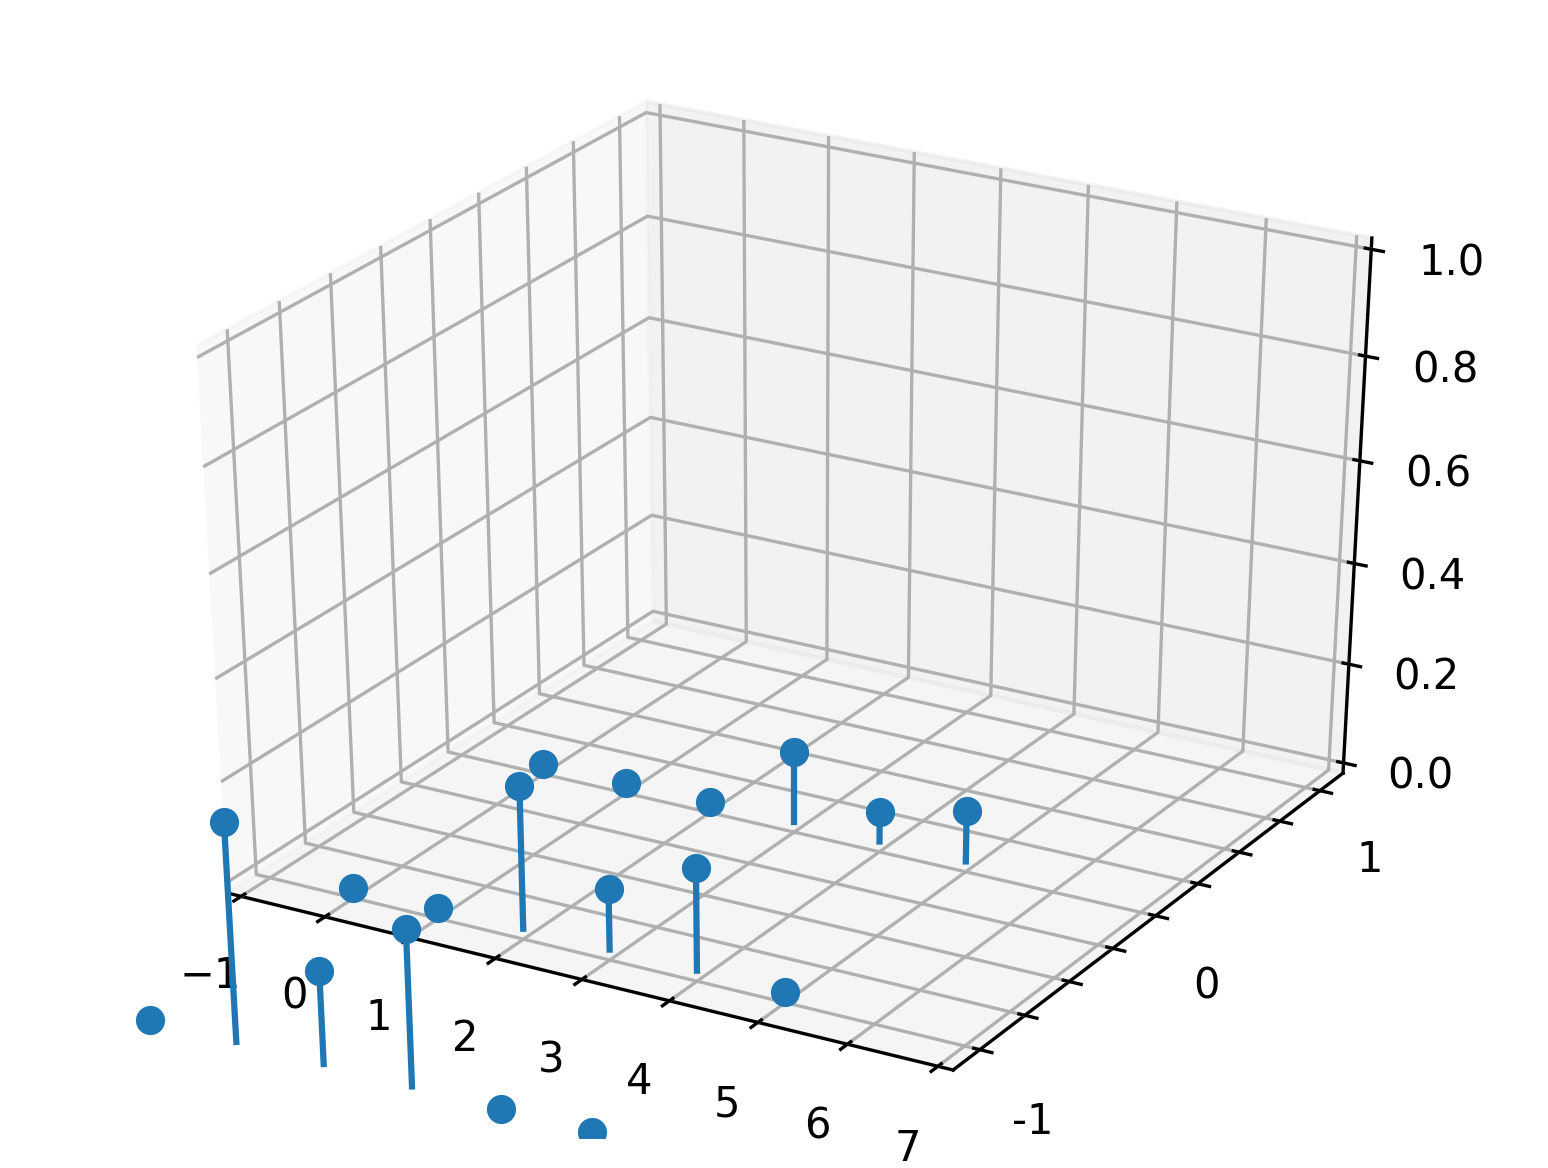
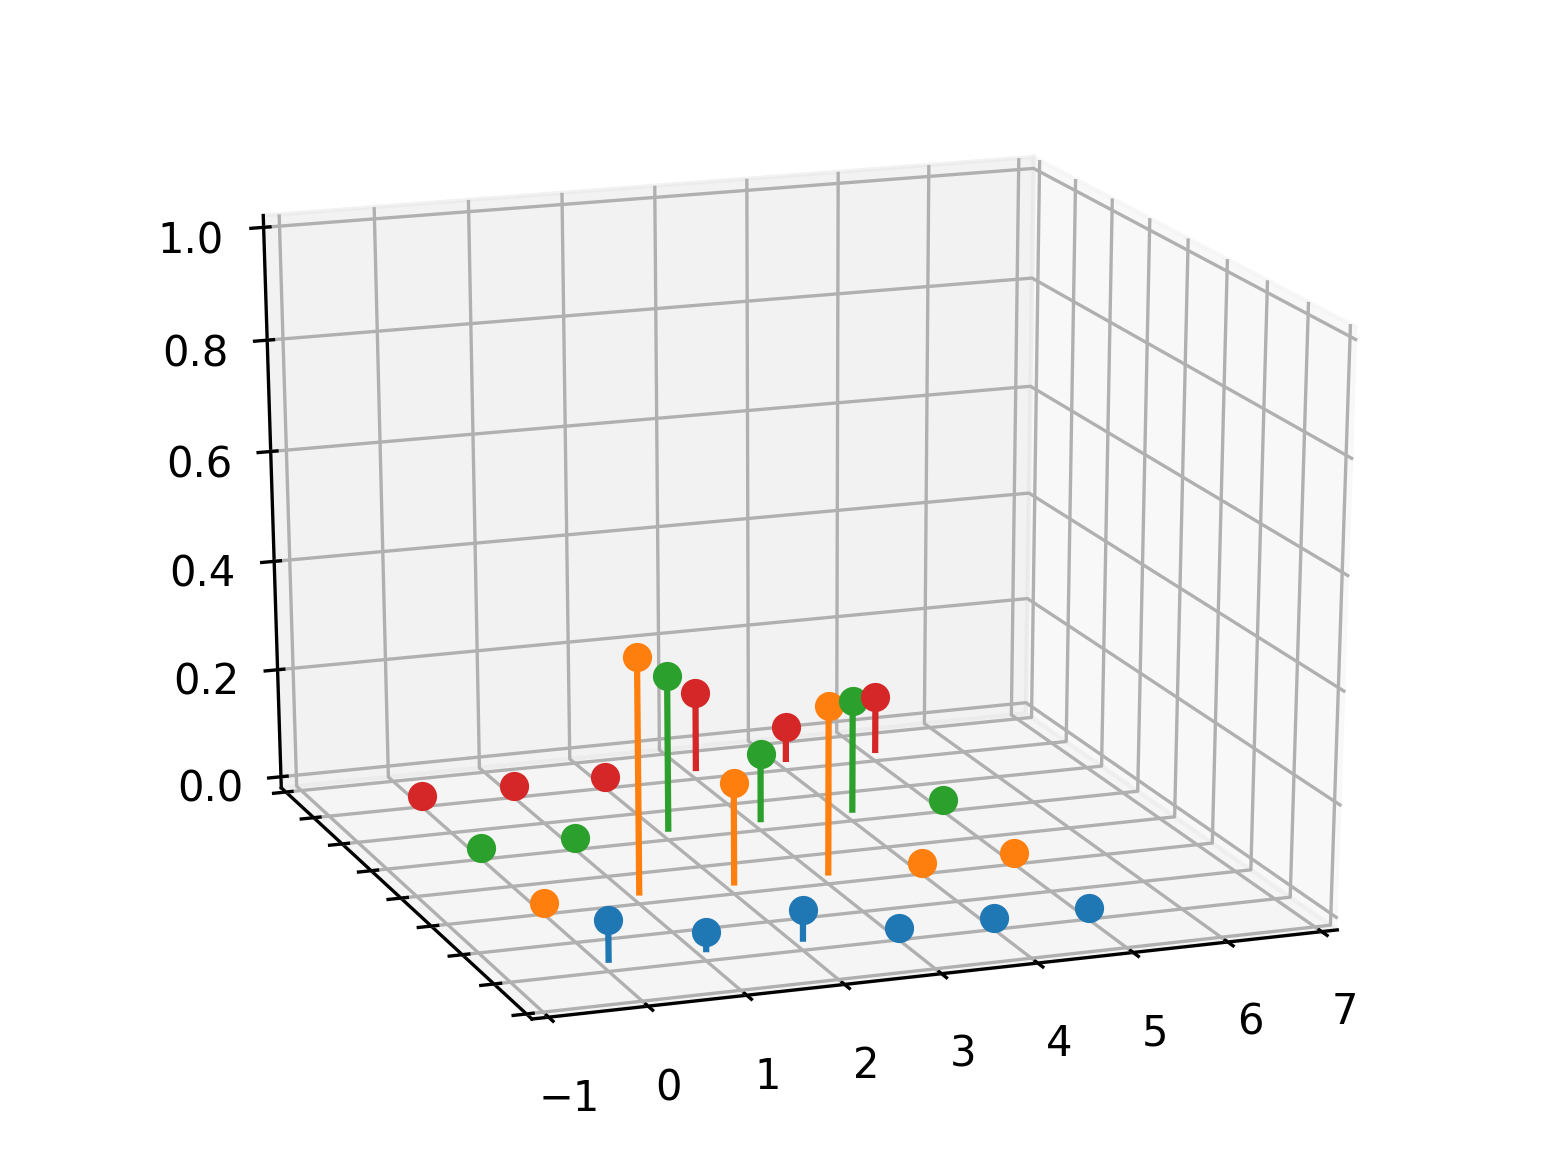
First sketch of figures. Written up to linearity.

diff --git a/_py/posts/2020-06-20-the-secret-behind-filtering/figures.py b/_py/posts/2020-06-20-the-secret-behind-filtering/figures.py
@@ -72,29 +72,19 @@ def plot_signals_3d(signals, filepath):
 
     fig = plt.figure()
     ax = fig.add_subplot(1, 1, 1, projection='3d')
+    ax.view_init(20, 250)
     for i in range(signals.shape[0]):
-        depth = 1 - signals.shape[0] + i
+        depth = 0.2* (i - 1)
         for j in range(signals.shape[1]):
-            line = art3d.Line3D(*zip((j, depth, 0), (j, depth, signals[i,j])), marker='o', markevery=(1, 1))
+            line = art3d.Line3D(*zip((j, depth, 0), (j, depth, signals[i,j])), marker='o', markevery=(1, 1), linestyle='-', color=COLORS[i])
             ax.add_line(line)
     plt.xlim(xlim)
-    plt.ylim([-1.1, 1.1])
-    plt.yticks(np.arange(-1,1.1,0.25), labels=['-1','','','','0','','','','1'])
-    # plt.grid(b=True)
-    
-    ax = plt.gca()
+    # plt.ylim([-1.1, 1.1])
+    ax.set_yticklabels([])
+    ax.set_ylim([-0.3, 0.5])
+    # ax.set_zticks(np.arange(-1,1.1,0.25))
+    # ax.set_zticklabels(['-1','','','','0','','','','1'])
 
-    # Move left y-axis and bottim x-axis to centre, passing through (0,0)
-    # ax.spines['left'].set_position(('data', 0.0))
-    # ax.spines['bottom'].set_position(('data', 0.0))
-
-    # Eliminate upper and right axes
-    # ax.spines['right'].set_color('none')
-    # ax.spines['top'].set_color('none')
-
-    # Show ticks in the left and lower axes only
-    # ax.xaxis.set_ticks_position('bottom')
-    # ax.yaxis.set_ticks_position('left')
     plt.savefig(filepath.absolute(), bbox_inches='tight', dpi=300)
     # plt.show()
 
@@ -119,21 +109,16 @@ def main():
     plot_signals(x_single, post_images_path.joinpath('x_single.png'))
 
     h_single = np.zeros((len(x),len(y)))
-    # h_domain_visualization = mtlb.repmat(np.arange(0.0,len(y),1.0), h_single.shape[0], 1)
     for i in range(len(x)):
         h_single[i,:] = np.convolve(x_single[i,:],h)
         plot_signal(h_single[i,:], post_images_path.joinpath(f'h_single_{i}.png'), color=COLORS[i])
 
-        # SHIFT_FACTOR = 0.1
-        # h_domain_visualization[i,:] =  np.add(h_domain_visualization[i,:], SHIFT_FACTOR * (1 - len(x) + i))
     
-    # print(h_domain_visualization)
     plot_signals_3d(h_single, post_images_path.joinpath('h_superposed.png'))
-    
-    
-    
 
-    
+    h_summed = np.sum(h_single, axis=0)
+    plot_signal(h_summed, post_images_path.joinpath('h_summed.png'))
+        
 
 if __name__ == '__main__':
     main()

diff --git a/_posts/2020-06-20-the-secret-behind-filtering.md b/_posts/2020-06-20-the-secret-behind-filtering.md
@@ -96,7 +96,44 @@ The same thing happens for green $x[2]$ and red $x[3]$:
 ![]({{ page.images | absolute_url | append: "/h_single_2.png"}})
 ![]({{ page.images | absolute_url | append: "/h_single_3.png"}})
 
-Summing all these "partial" responses up we obtain:
+Viewing all these "partial" responses on a plot shows the impact of each individual input sample over time:
+![]({{ page.images | absolute_url | append: "/h_superposed.png"}})
 
+Summing them all up (as if summing over $k$ in the convolution formula) we obtain:
+![]({{ page.images | absolute_url | append: "/h_single_0.png"}})
+what corresponds to the $y[n]$ signal above.
+
+# Continuous convolution
+Convolution is defined for continuous signals as well (notice the conventional use of round brackets for non-discrete functions):
+
+$$ x(t) \ast h(t) = \int \limits_{-\infty}^{\infty} x(\tau) h(t - \tau) d\tau $$
+
+Although it may not be as intuitive in interpretation as the discrete convolution, nevertheless, we could try to imagine the continuous case as an infinitely densely sampled discrete signal (so that sum over discrete samples changes to integral over continuous functions). But keep in mind that it is only an intuitive view!
+
+# Properties of convolution
+In this article the following properties of the convolution are discussed:
+ * commutativity: $x \ast h = h \ast x$
+ * linearity (associativity + distributivity):  
+ $(\alpha x_1 + \beta x_2) \ast h = \alpha (x_1\ast h) + \beta (x_2 \ast h)$
+
+Their formulations and proofs are provided for the discrete as well as continuous cases.
+
+## Commutativity
+Commutativity of an operation means that its operands can be exchanged without affecting the result:
+
+$$ x[n] \ast h[n] = h[n] \ast x[n] $$
+$$ x(t) \ast h(t) = h(t) \ast x(t) $$
+
+It has a very interesting interpretation in the context of signal processing: it turns out we can interpret system's impact on the signal as signal's impact on the system's impulse response. In particular, the filtering operation can be viewed as if the input signal was filtering the filter's impulse response. As we already seen, it is completely true: the output of a filter is a sum of its repeatedly scaled and delayed (=filtered) impulse response.
+
+### Proof for the discrete case
+$$ x[n] \ast h[n] = \sum_{k=-\infty}^{\infty} x[k] h[n - k] = | k' = n-k; k = n - k'| \\ =\sum_{k'=-\infty}^{\infty} x[n-k'] h[k'] = \sum_{k'=-\infty}^{\infty} h]k'] x[n-k'] = h[n] \ast x[n]. $$
+
+### Proof for the continuous case
+$$ x(t) \ast h(t) = \int \limits_{-\infty}^{\infty} x(\tau) h(t - \tau) d\tau \\ = | \tau' = t - \tau; \tau = t - \tau'; d\tau'| \\= -d\tau | = - \int \limits_{\infty}^{-\infty} x(t - \tau') h(\tau') d\tau' = \int \limits_{-\infty}^{\infty} h(\tau') x(t - \tau') d\tau' \\= h(t) \ast x(t).$$
+
+*Note the inversion of boundaries and the resulting change of the sign.*
+
+## Linearity (associativity + distributivity)
 
 {% endkatexmm %}
